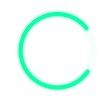
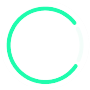
feat: fix bug slot, games

Changed region(s): [[0.0667, 0.0667, 0.8667, 0.9556]]

diff --git a/public/css/custom.css b/public/css/custom.css
@@ -224,7 +224,7 @@ body {
     font-size: 14px;
     font-weight: 700;
 }
-.slot_percent_1 {
+/* .slot_percent_1 {
     color: #fff;
     font-weight: 700;
     position: absolute;
@@ -232,8 +232,8 @@ body {
     bottom: 40px;
     font-size: 14px;
 
-    padding: 30px; /* Optional: Adjust padding as needed */
-    text-align: center; /* Center the text inside the div */
+    padding: 30px; 
+    text-align: center;
 }
 
 .slot_percent_1::before {
@@ -243,13 +243,13 @@ body {
     left: 0;
     right: 0;
     bottom: 0;
-    background-image: url(../images/background/bg-game-progress-circle.png); /* Set the path to your image */
+    background-image: url(../images/background/bg-game-progress-circle.png);
     background-size: contain;
     background-position: center;
     background-repeat: no-repeat;
-    z-index: 1; /* Ensure the background image stays behind the text */
+    z-index: 1; 
     animation: spin 2s linear infinite;
-}
+} */
 
 @keyframes spin {
     from {

diff --git a/public/js/login.js b/public/js/login.js
@@ -27,7 +27,7 @@ $(document).ready(function () {
                     );
                 } else {
                     $(".error-message").text(
-                        "Có lỗi xảy ra. Vui lòng liên hệ admin để được hỗ trợ."
+                        "Có lỗi xảy ra. Liên hệ admin để được hỗ trợ."
                     );
                     // $("#help-model h3").text(
                     //     "Có lỗi xảy ra. Vui lòng liên hệ admin để được hỗ trợ."

diff --git a/app/Http/Controllers/Admin/GameController.php b/app/Http/Controllers/Admin/GameController.php
@@ -45,7 +45,7 @@ class GameController extends Controller
             if ($request->hasFile('image_url')) {
                 // Lưu file ảnh vào thư mục public/images và lấy đường dẫn
                 $file = $request->file('image_url');
-                $newFileName = time().'_'.$file->getClientOriginalName();
+                $newFileName = time() . '_' . $file->getClientOriginalName();
                 $imagePath = $file->move(public_path('/images'), $newFileName);
                 $input['image_url'] = $newFileName;
             }
@@ -54,8 +54,8 @@ class GameController extends Controller
             $game->save(); // save to db
             return redirect()->to(route('games.index'))
                 ->with('success', __('messages.games.created_success'));
-        } catch (\Exception $exception){
-            Log::error('Create game error: '.$exception->getMessage());
+        } catch (\Exception $exception) {
+            Log::error('Create game error: ' . $exception->getMessage());
 
             return redirect()->back()
                 ->with('error', 'Create error');
@@ -90,22 +90,22 @@ class GameController extends Controller
             if ($request->hasFile('image_url')) {
                 // Lưu file ảnh vào thư mục public/images và lấy đường dẫn
                 $file = $request->file('image_url');
-                $newFileName = time().'_'.$file->getClientOriginalName();
+                $newFileName = time() . '_' . $file->getClientOriginalName();
                 $imagePath = $file->move(public_path('/images'), $newFileName);
                 $input['image_url'] = $newFileName;
 
                 //Xóa ảnh cũ
                 // Nếu hình ảnh cũ tồn tại
-                if (Storage::disk('public')->exists('public/images/'.$game->image_url)) {
+                if (Storage::disk('public')->exists('images/' . $game->image_url)) {
                     // Xóa hình ảnh cũ
-                    Storage::disk('public')->delete('public/images/'.$game->image_url);
+                    Storage::disk('public')->delete('images/' . $game->image_url);
                 }
             }
             $game->update($input);
             return redirect()->to(route('games.index'))
                 ->with('success', __('messages.games.updated_success'));
-        } catch (\Exception $exception){
-            Log::error('Update game error: '.$exception->getMessage());
+        } catch (\Exception $exception) {
+            Log::error('Update game error: ' . $exception->getMessage());
 
             return redirect()->back()
                 ->with('error', __('messages.update_error'));
@@ -120,15 +120,15 @@ class GameController extends Controller
         try {
             //Xóa ảnh cũ
             // Nếu hình ảnh cũ tồn tại
-            if (Storage::disk('public')->exists('public/images/'.$game->image_url)) {
+            if (Storage::disk('public')->exists('images/' . $game->image_url)) {
                 // Xóa hình ảnh cũ
-                Storage::disk('public')->delete('public/images/'.$game->image_url);
+                Storage::disk('public')->delete('images/' . $game->image_url);
             }
             $game->delete();
             return redirect()->to(route('games.index'))
                 ->with('success', __('messages.games.deleted_success'));
-        } catch (\Exception $exception){
-            Log::error('Delete game error: '.$exception->getMessage());
+        } catch (\Exception $exception) {
+            Log::error('Delete game error: ' . $exception->getMessage());
 
             return redirect()->back()
                 ->with('error', __('messages.delete_error'));
@@ -145,8 +145,8 @@ class GameController extends Controller
         $gameQuery = (new Game())->getGame($request, true);
         return (new Datatables())->eloquent($gameQuery)
             ->addColumn('action', function ($item) {
-                $credit = $item->role == 2 ? '<div class="btn btn-primary btn-xs credit" data-toggle="modal" data-id="'.$item->id.'" data-model="admin"><i class="fa fa-credit-card">'.__('layouts.users.add_coin').'</i></div>' : '';
-                return $credit.'<a class="btn btn-success btn-xs" href="' . route('games.edit', $item->id) . '">
+                $credit = $item->role == 2 ? '<div class="btn btn-primary btn-xs credit" data-toggle="modal" data-id="' . $item->id . '" data-model="admin"><i class="fa fa-credit-card">' . __('layouts.users.add_coin') . '</i></div>' : '';
+                return $credit . '<a class="btn btn-success btn-xs" href="' . route('games.edit', $item->id) . '">
                          <i class="fa fa-edit"></i> ' . __('layouts.btn_edit') . '</a>';
             })
             ->rawColumns(['action'])

diff --git a/resources/views/client/slot.blade.php b/resources/views/client/slot.blade.php
@@ -48,19 +48,30 @@
 						</div>
 					</div>
 
-					<div id="game-list" class="grid grid-cols-1 sm:grid-cols-3  gap-5 overflow-y-auto md:overflow-y-visible max-h-[50vh]">
+					<div id="game-list" class="flex-1 grid grid-cols-1 sm:grid-cols-3  gap-5 overflow-y-auto overflow-x-hidden min-h-[50vh] max-h-[50vh]">
 						@foreach($slots as $slot)
 							<a class="game-item" data-name="{{$slot->name}}" href="{{ route('detail-slot', [$slot->slug, $slot->id]) }}">
 							  <div class="slot_item">
-								<div class="slot_image">
-									<img alt="slot image" src="{{ asset('images/'.$slot->image_url) }}">
+								<div class="flex items-center justify-between">
+									<div class="slot_image">
+										<img alt="slot image" src="{{ asset('images/'.$slot->image_url) }}">
+									</div>
+
+									<div class="relative size-[80px]">
+										<img style="transform-origin: center;" class="w-full h-full absolute object-contain animate-spin" src="{{asset('images/background/bg-game-progress-circle.png')}}" />
+										
+										<span class="slot_percent_1 percent_{{ $slot->id }} absolute top-[50%] left-[50%] -translate-x-[50%] -translate-y-[50%] text-white">{{ $slot->percent }}%</span>
+									</div>
 								</div>
+
+
 								<div class="slot_title mb-2">
 									<span>{{ $slot->name }}</span>
 								</div>
-								<div class="slot_percent_1 percent_{{ $slot->id }}">
+								
+								{{-- <div class="slot_percent_1 percent_{{ $slot->id }}">
 									{{ $slot->percent }}%
-								</div>
+								</div> --}}
 
 								<div class="animation-bar-1">
 									<span class="w-[70%] h-[12px]"></span>
@@ -111,7 +122,7 @@
 
 				document.body.appendChild(tempElement);
 
-				if (tempElement.offsetWidth > 120) {
+				if (tempElement.offsetWidth > 90) {
 					textElement.classList.add('scrolling-text');
 				}
 
@@ -121,7 +132,6 @@
 			});
 		});
 	</script>
-
 	{{-- Search --}}
 	<script>
 		// Handle autocomplete search
